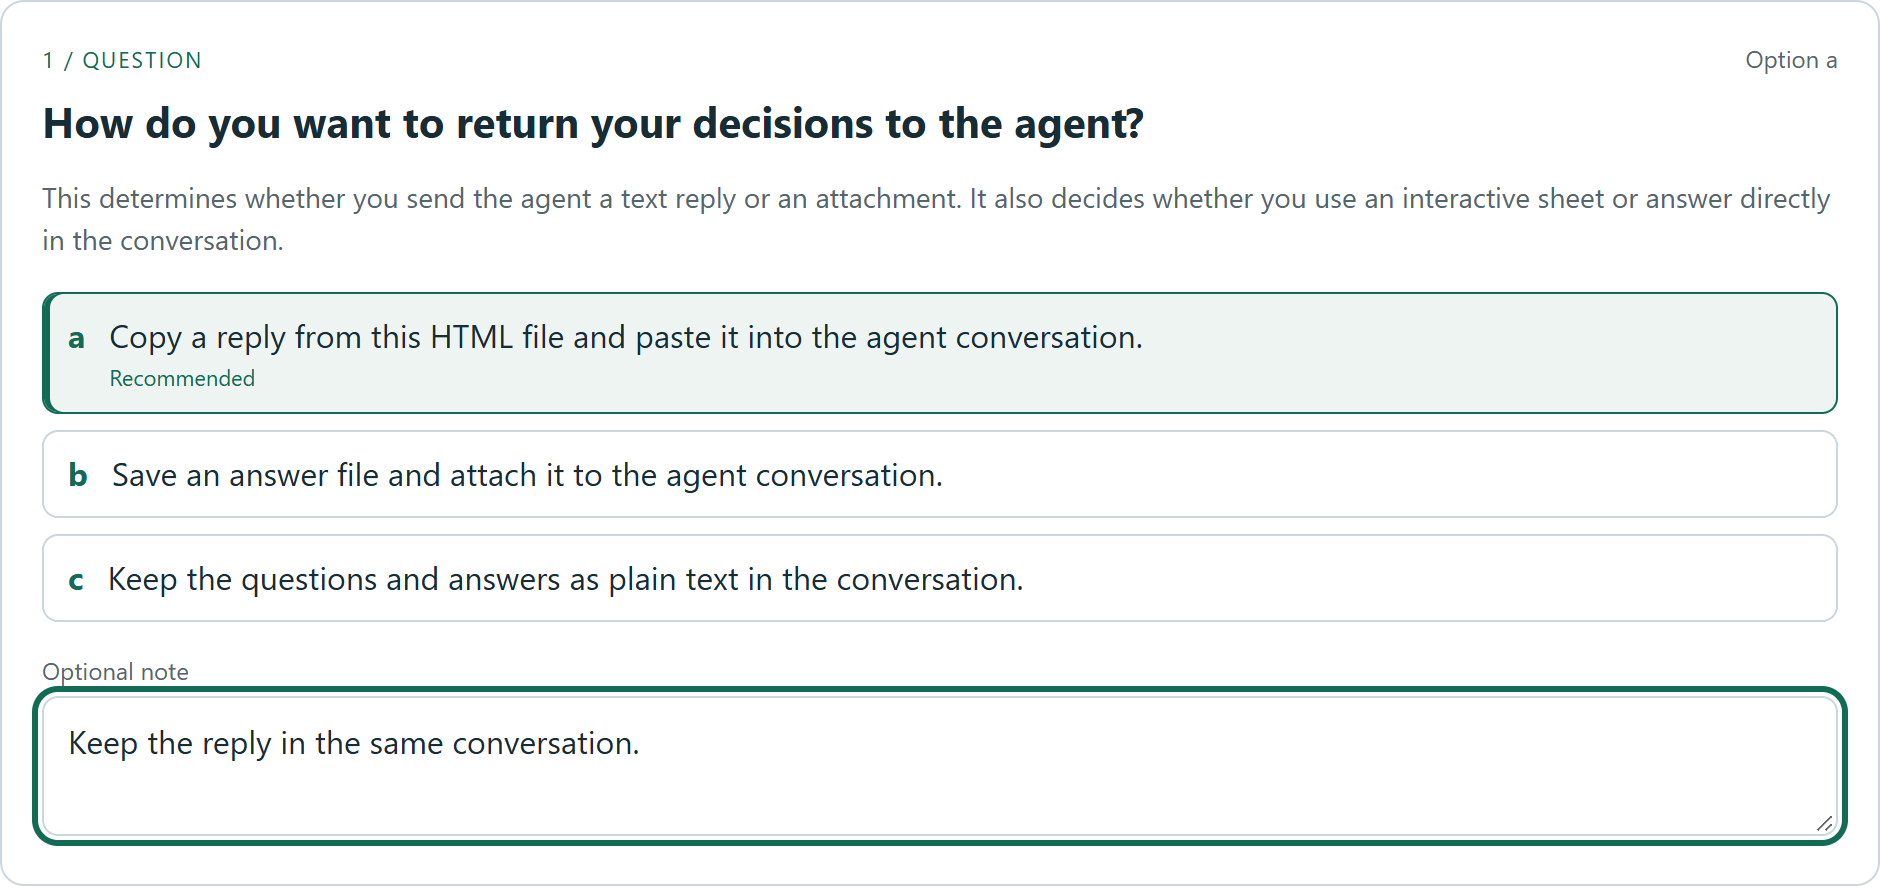
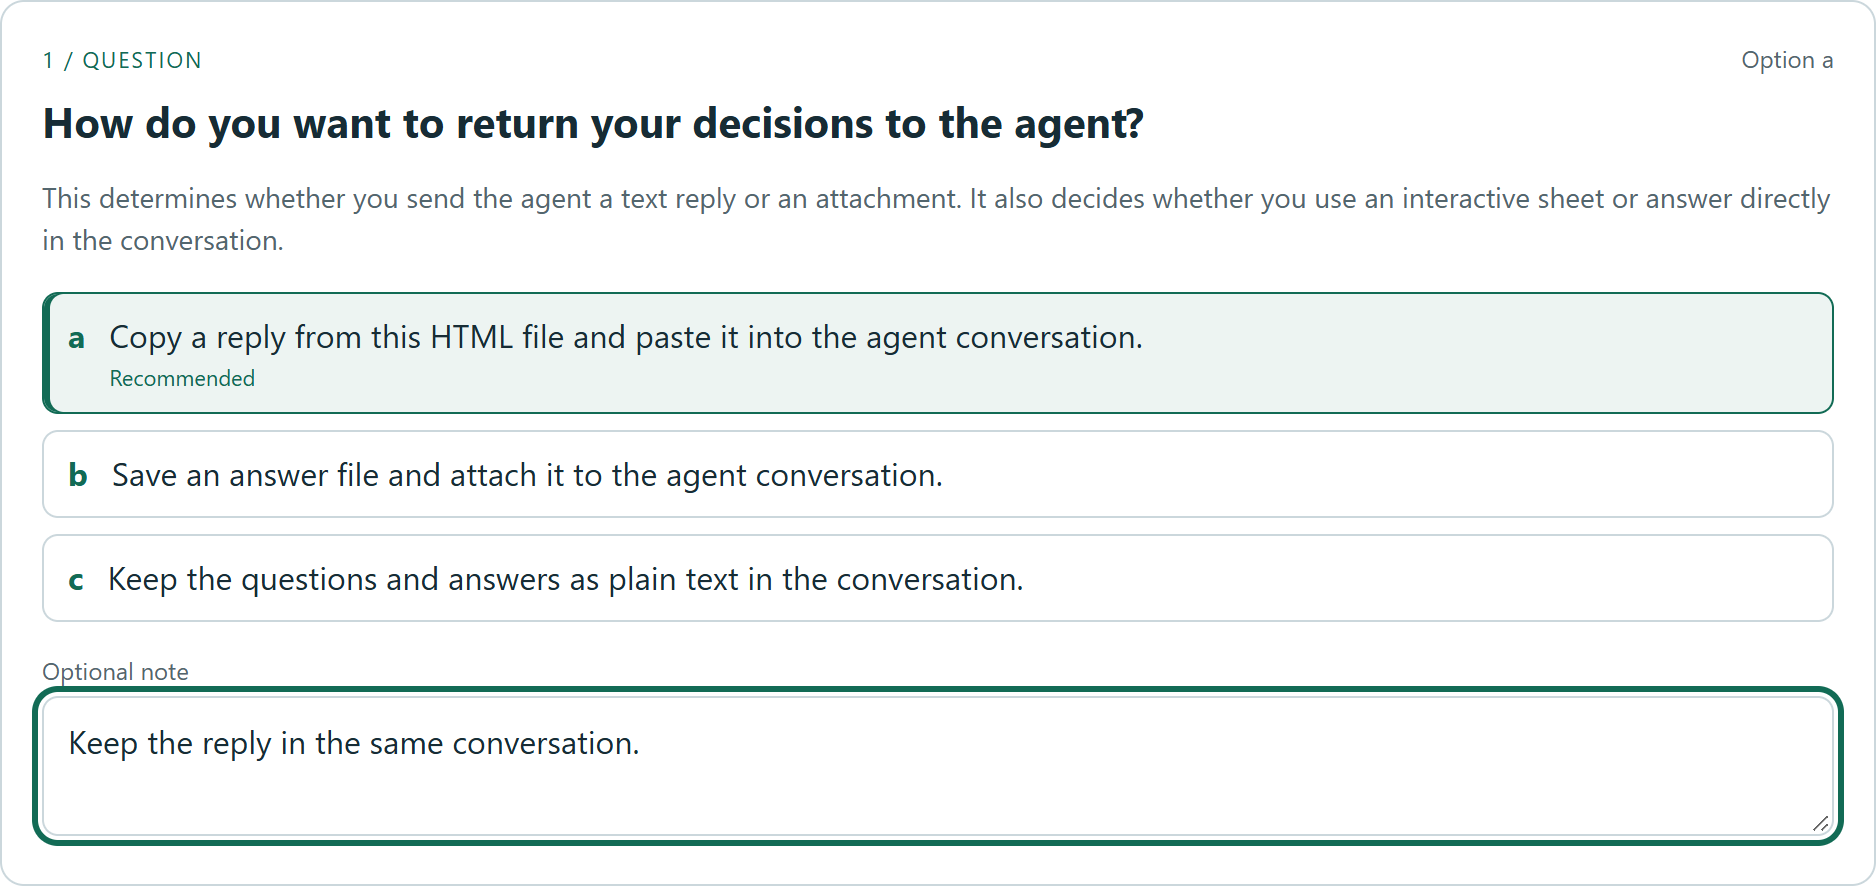
Condense copied decisions and inset the mobile form (#3)

diff --git a/skills/qior/assets/style.css b/skills/qior/assets/style.css
@@ -1,2 +1,4 @@
 :root{color-scheme:light dark;font-family:var(--font-sans,system-ui,-apple-system,BlinkMacSystemFont,"Segoe UI",sans-serif);color:var(--foreground,#e7ecf1);--p:var(--card,light-dark(#ffffff,#17212a));--fg:var(--foreground,light-dark(#172c35,#e7ecf1));--dim:var(--muted-foreground,light-dark(#53666e,#aebbc7));--stroke:var(--border,light-dark(#cbd7dc,#35434f));--green:var(--success,light-dark(#126b55,#9bd9bf));--wash:var(--secondary,light-dark(#edf4f2,#21372f));--radius:12px}*{box-sizing:border-box}html,body{margin:0;color:var(--fg)}main{max-width:940px;margin:auto}header{display:flex;align-items:center;justify-content:space-between;gap:12px;padding:22px 0 12px}.wordmark{font-weight:750;letter-spacing:2px;font-size:25px}.wordmark span{color:var(--green)}.wordmark small{font-size:13px;font-weight:500;letter-spacing:0}.badge,.eyebrow{font-size:11px;letter-spacing:1px;text-transform:uppercase;color:var(--green)}.badge{border:1px solid var(--stroke);border-radius:30px;padding:7px 10px;white-space:nowrap}h1{font-size:clamp(24px,4vw,34px);letter-spacing:-.7px;margin:12px 0}h2{font-size:21px;line-height:1.35;margin:9px 0 14px}h3{font-size:14px}.intro{margin-bottom:20px}.muted{color:var(--dim);line-height:1.5}.small,footer{font-size:12px}p{line-height:1.5}button,input,textarea,select{font:inherit;color:var(--fg);border:1px solid var(--stroke);border-radius:8px;background:var(--p);padding:10px 12px}button{cursor:pointer;min-height:44px}button:hover{border-color:var(--green)}button:disabled{opacity:.5;cursor:default}button:focus-visible,input:focus-visible,textarea:focus-visible,select:focus-visible,summary:focus-visible{outline:3px solid var(--green);outline-offset:2px}.primary{background:var(--wash);border-color:var(--green);font-weight:650}textarea{width:100%;resize:vertical;line-height:1.5}input{min-width:0}summary{cursor:pointer;color:var(--dim);font-size:13px;padding:8px 0}details[open]>summary{margin-bottom:8px}.panel,.question{background:var(--p);border:1px solid var(--stroke);border-radius:var(--radius);padding:20px;margin:14px 0}.panel label{display:block;margin:8px 0}.file-label{display:flex!important;flex-wrap:wrap;align-items:center;gap:8px}.file-label input{max-width:100%;font-size:12px}.status-row{display:flex;align-items:center;justify-content:space-between;gap:10px;margin:20px 0 10px;font-size:13px}.status-row button{font-size:12px}.actions{display:flex;gap:8px;flex-wrap:wrap}#status{font-size:13px;color:var(--green);min-height:20px;margin:8px 0}.question-head{display:flex;justify-content:space-between;align-items:center;gap:12px}.answer-status{font-size:12px;color:var(--dim)}.options{display:grid;gap:8px;margin:16px 0}.option{text-align:left;display:flex;gap:12px;align-items:flex-start;background:transparent}.letter{color:var(--green);font-weight:650}.option[aria-pressed=true],.special[aria-pressed=true]{border-color:var(--green);background:var(--wash);box-shadow:inset 3px 0 0 var(--green)}.recommend-tag{font-size:11px;color:var(--green);display:block;margin-top:3px}.special{font-size:12px;padding:8px 10px}.note-label{font-size:12px;color:var(--dim);display:block;margin:14px 0 5px}.note{min-height:66px}.clear{margin-left:auto}.pictures{display:grid;grid-template-columns:minmax(0,1fr) minmax(0,1fr);gap:12px;margin:18px 0}.pictures figure{min-width:0;margin:0}.image-button{width:100%;padding:0;background:var(--wash);border-radius:10px;overflow:hidden;display:block}.pictures img{display:block;width:100%;height:205px;object-fit:contain}.pictures figcaption{font-size:12px;line-height:1.4;margin:7px 0;color:var(--dim)}.handoff-heading{display:flex;justify-content:space-between;align-items:start;gap:12px}.handoff-heading h2{margin-bottom:0}.handoff-heading p{font-size:13px;margin:7px 0 12px}.handoff-heading label{font-size:12px;margin:0}.handoff-heading select{display:block;margin:5px 0}#output{font-family:var(--font-mono,ui-monospace,monospace);font-size:12px;min-height:180px}#handoff .actions{margin-top:10px}footer{color:var(--dim);line-height:1.5;margin:20px 0}dialog{border:1px solid var(--stroke);border-radius:12px;background:var(--p);color:var(--fg);max-width:96%;max-height:92%;padding:16px}dialog::backdrop{background:#000a}dialog img{display:block;max-width:100%;max-height:700px;object-fit:contain;margin-top:10px}@media(max-width:500px){.panel,.question{padding:14px}.wordmark{font-size:22px}.wordmark small{font-size:11px}.badge{font-size:10px}.pictures{gap:8px}.pictures img{height:145px}.actions>button{flex:1}.question .actions .clear{flex:initial}.handoff-heading{display:block}.handoff-heading label{display:flex;align-items:center;gap:10px}.handoff-heading select{margin:0 0 10px}.question h2{font-size:19px}}@media print{button,#loader,#status,footer{display:none}.question{break-inside:avoid}}
 .implications{font-size:14px;line-height:1.5;margin:10px 0 16px;color:var(--dim)}.consider-b{display:block;margin-top:6px;font-size:12px;line-height:1.5;color:var(--dim)}dialog{position:absolute;inset:auto 0 auto 0;margin:0 auto;max-height:none}
+header,.intro,#loader,.status-row,#status{margin-inline:12px}
+#questions{margin-inline:1px}

diff --git a/skills/qior/references/packet-format.md b/skills/qior/references/packet-format.md
@@ -35,7 +35,7 @@ when A is your recommendation. Omit it when you have none. An optional
 `considerB` string is allowed only with two options and no recommendation.
 It appears within option B as a reason to consider it.
 
-An optional `origin` string is retained in the exported answer for routing.
+An optional `origin` string is retained in the JSON answer for routing.
 It is not shown as introductory text in the sheet. Omit it unless it helps
 the receiving agent identify the conversation.
 
@@ -77,7 +77,21 @@ to stderr and exit with status 1. Success writes one JSON result to stdout.
 ## Answer interface
 
 The user pastes the sheet's plain text or JSON output into the conversation.
-JSON output uses `format: "qior.answers.v1"`, `packetId`, `revision`, and
+The default plain text puts all responses on one line, using their original
+IDs and semicolons between responses:
+
+```text
+Q1: a; Q2: b | Comment: "Keep it crisp."; Q3: Answer: "Use another layout."; Q4: Decide later; Q5: Question: "Does this work offline?"; Q6: Unanswered
+```
+
+Option text, packet metadata, and closing instructions are omitted from the
+plain text. Free text is quoted, with quotes and line breaks escaped as in
+JSON, so comments cannot be confused with another response. Notes on unanswered
+questions are labeled `Draft comment` to keep them distinct from decisions.
+The receiving agent uses the question IDs in the originating conversation.
+
+JSON output retains the full record, including option text, when needed.
+It uses `format: "qior.answers.v1"`, `packetId`, `revision`, and
 `responses`. Each response has a question `id`, its question text, and a type:
 
 - `option`: `option` is a lowercase letter and `decision` is the option text.

diff --git a/skills/qior/SKILL.md b/skills/qior/SKILL.md
@@ -74,9 +74,12 @@ node "<skill-root>/scripts/qior.mjs" viewer --out viewer.html
 The user copies plain text or JSON from the sheet and sends it back in the
 originating conversation. Creating or opening a sheet supplies no answers.
 
-- Match the packet ID, revision, and question IDs before using a response.
-  If it is from an older revision, reconcile the changed questions before
-  acting on those answers. Continue with answers whose meaning is clear.
+- Plain text puts all responses on one line, separated by semicolons, such
+  as `Q1: a; Q2: b | Comment: "Keep it crisp."`. Free text is quoted, with
+  embedded line breaks escaped. Match the IDs to the latest question
+  sheet in the originating conversation. If a question has since changed,
+  clarify that answer before acting. JSON also carries the packet ID and
+  revision for matching. Continue with answers whose meaning is clear.
 - Echo each explicit decision briefly and act within existing authorization.
   Record it in the project's existing decision log when there is one.
 - A custom answer is the user's decision as written. Preserve their notes.

diff --git a/README.md b/README.md
@@ -38,10 +38,12 @@ either picture to enlarge it near its original position on the page.
 
 ![Two design pictures side by side, with option B selected and a note about the colored header.](docs/screenshots/compare-pictures.png)
 
-Copy the generated reply and send it back to the agent. It contains the
-selected options and your notes, with unanswered questions left open.
+Copy the generated reply and send it back to the agent. It puts all responses
+on one line, with question IDs, selected letters, and any quoted comments or
+follow-up questions. Semicolons separate the responses.
+Unanswered and deferred questions remain open.
 
-![The generated plain-text reply containing both selected answers and notes, with a Copy answers button.](docs/screenshots/copy-decisions.png)
+![The compact plain-text reply containing question IDs, option letters, and comments, with a Copy answers button.](docs/screenshots/copy-decisions.png)
 
 These screenshots use the synthetic example packet included with the skill.
 
